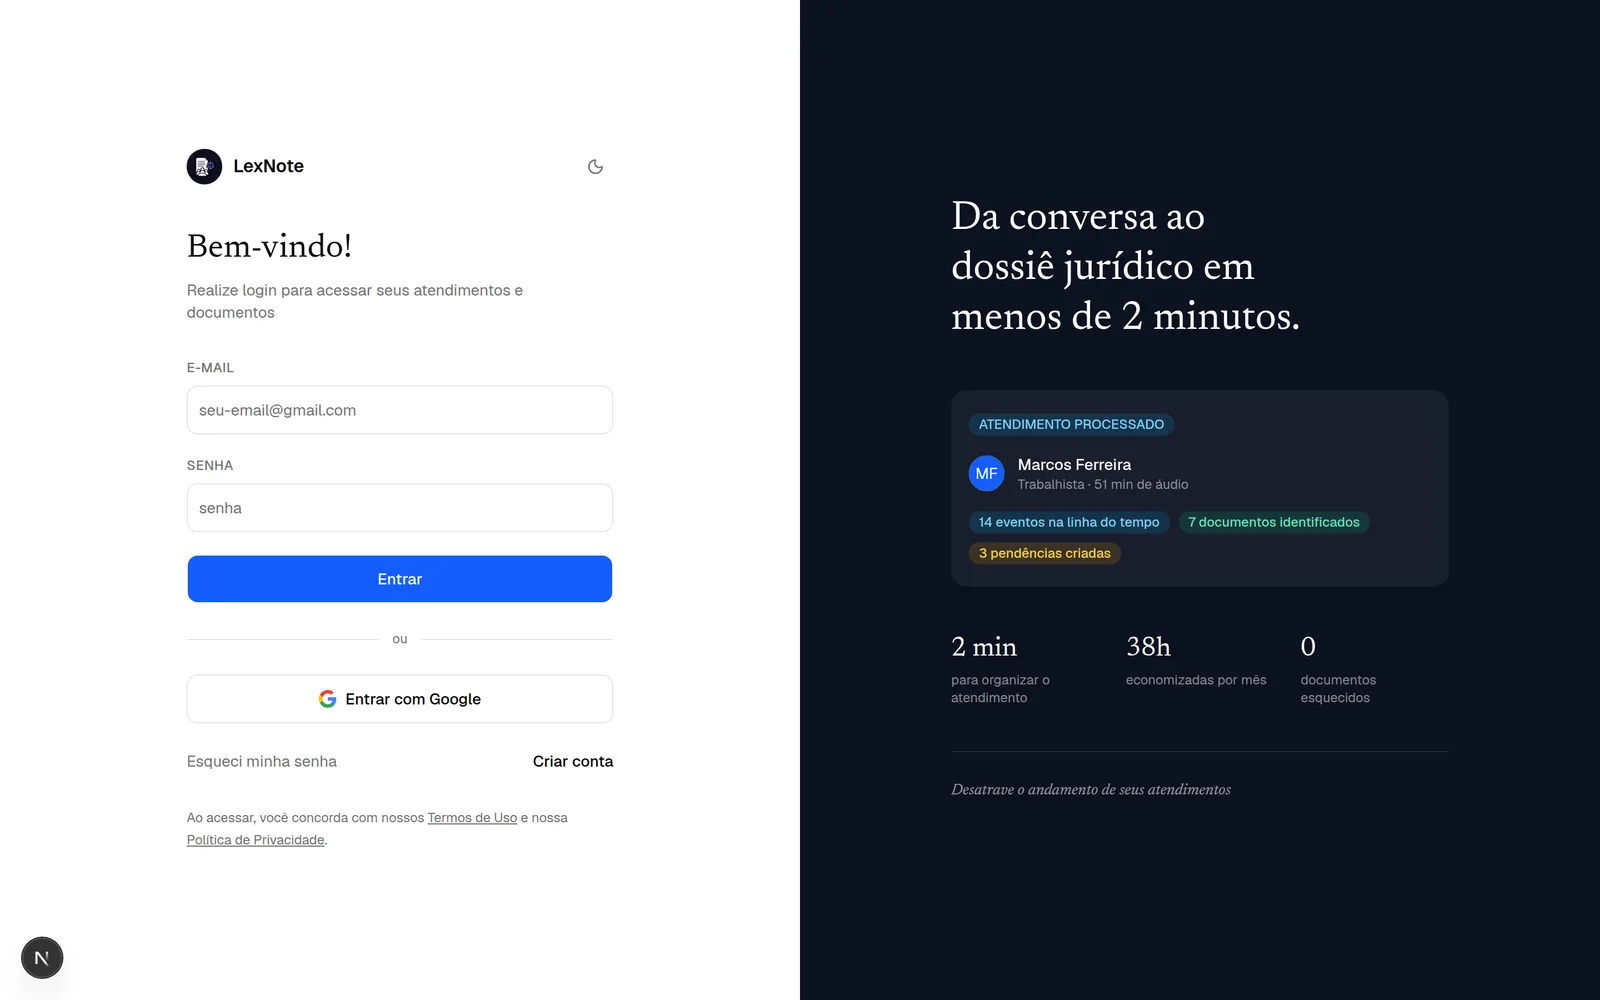
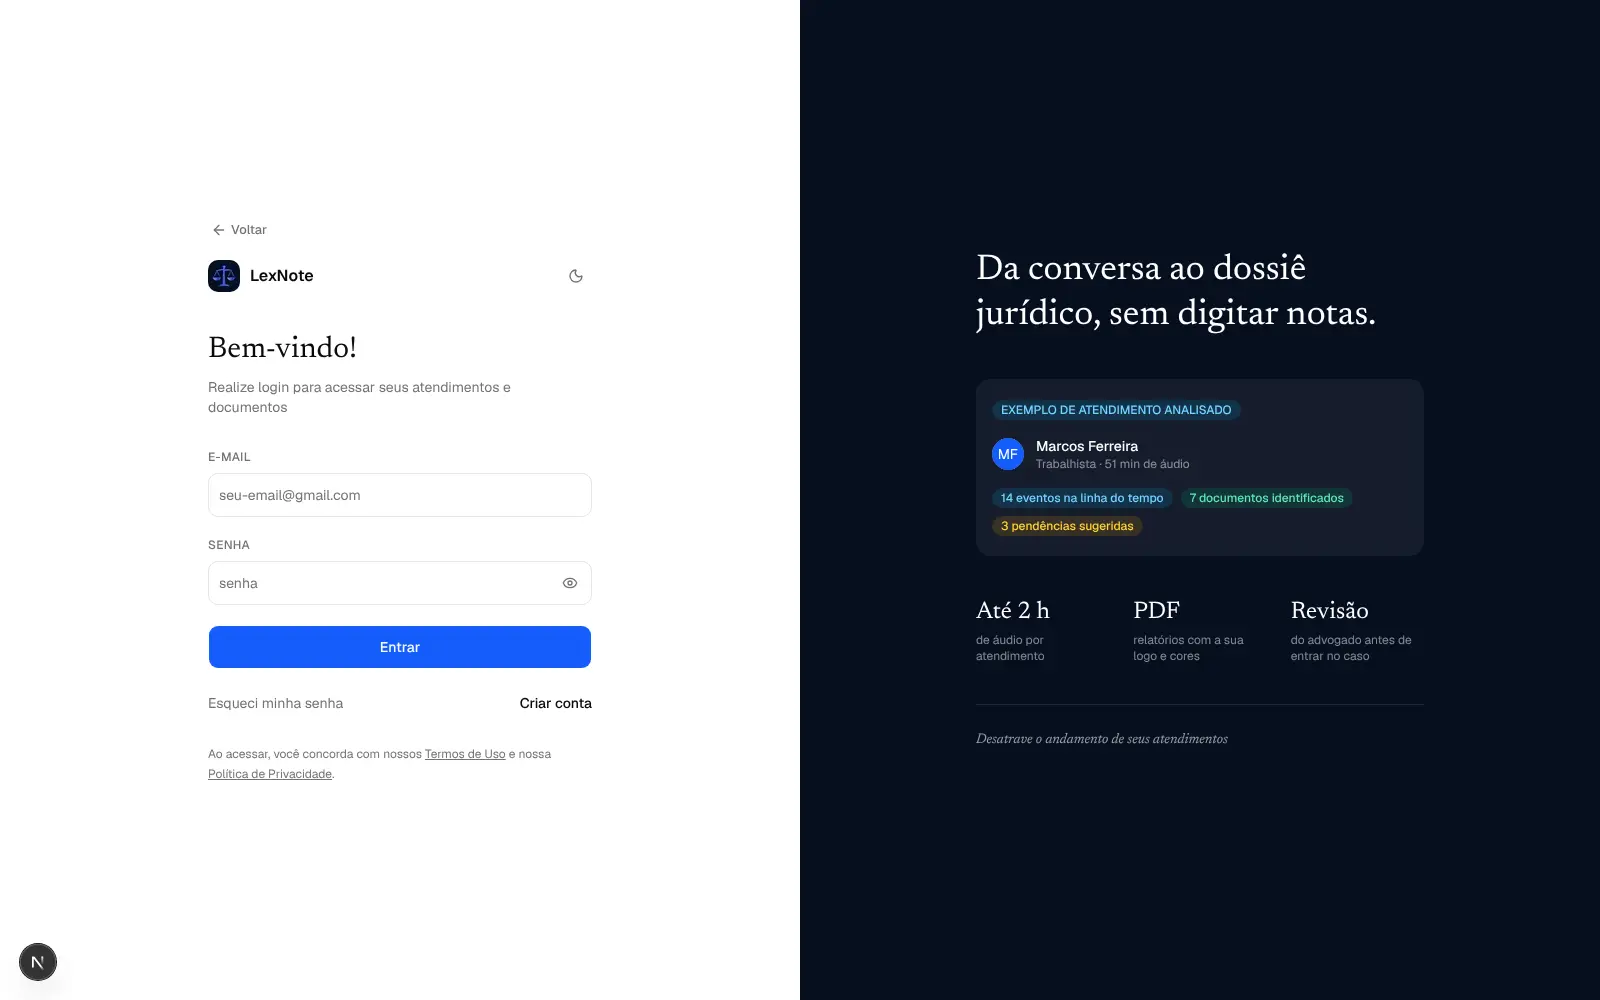
Refresh LexNote screenshots and add AI legal assistant to gallery
LexNote shipped a round of visual and product updates since the last
screenshots were taken: a redesigned sidebar with grouped sections, a
reworked Pendências page (stat cards, filters, priority/status
columns), honest login-page copy (no more unmeasured "38h economizadas"
claim), and a new pixel-art owl legal assistant available on the
Premium and top-tier office plans.

Recaptured Clientes (hero), Atendimentos, Agenda, Pendências and Login
against the current app, and added a new gallery entry for the AI
assistant panel. Updated the project description and tags (added
Cohere) to mention the assistant feature.

diff --git a/src/data/featured-projects.ts b/src/data/featured-projects.ts
@@ -18,13 +18,14 @@ export const featuredProjects: FeaturedProject[] = [
     eyebrow: 'Projeto pessoal',
     tagline: 'Da conversa ao dossiê jurídico em menos de 2 minutos',
     description:
-      'Aplicação jurídica que transforma o atendimento com o cliente em um dossiê completo: a IA organiza fatos, prazos e pendências automaticamente, enquanto agenda, clientes e cobranças ficam centralizados em um só lugar.',
-    tags: ['Next.js', 'NestJS', 'Prisma', 'PostgreSQL', 'Stripe', 'Tailwind CSS', 'shadcn/ui'],
+      'Aplicação jurídica que transforma o atendimento com o cliente em um dossiê completo: a IA organiza fatos, prazos e pendências automaticamente, enquanto agenda, clientes e cobranças ficam centralizados em um só lugar. Conta também com um assistente jurídico com IA, que responde dúvidas sobre direito brasileiro e sobre os próprios dados do escritório.',
+    tags: ['Next.js', 'NestJS', 'Prisma', 'PostgreSQL', 'Stripe', 'Cohere', 'Tailwind CSS', 'shadcn/ui'],
     heroScreenshot: '/screenshots/lexnote/clientes.webp',
     gallery: [
       { src: '/screenshots/lexnote/atendimentos.webp', label: 'Atendimentos' },
       { src: '/screenshots/lexnote/agenda.webp', label: 'Agenda' },
-      { src: '/screenshots/lexnote/pendencias.webp', label: 'Documentos & Pendências' },
+      { src: '/screenshots/lexnote/pendencias.webp', label: 'Pendências' },
+      { src: '/screenshots/lexnote/assistente.webp', label: 'Assistente jurídico com IA' },
       { src: '/screenshots/lexnote/login.webp', label: 'Login' },
     ],
     status: 'private',
